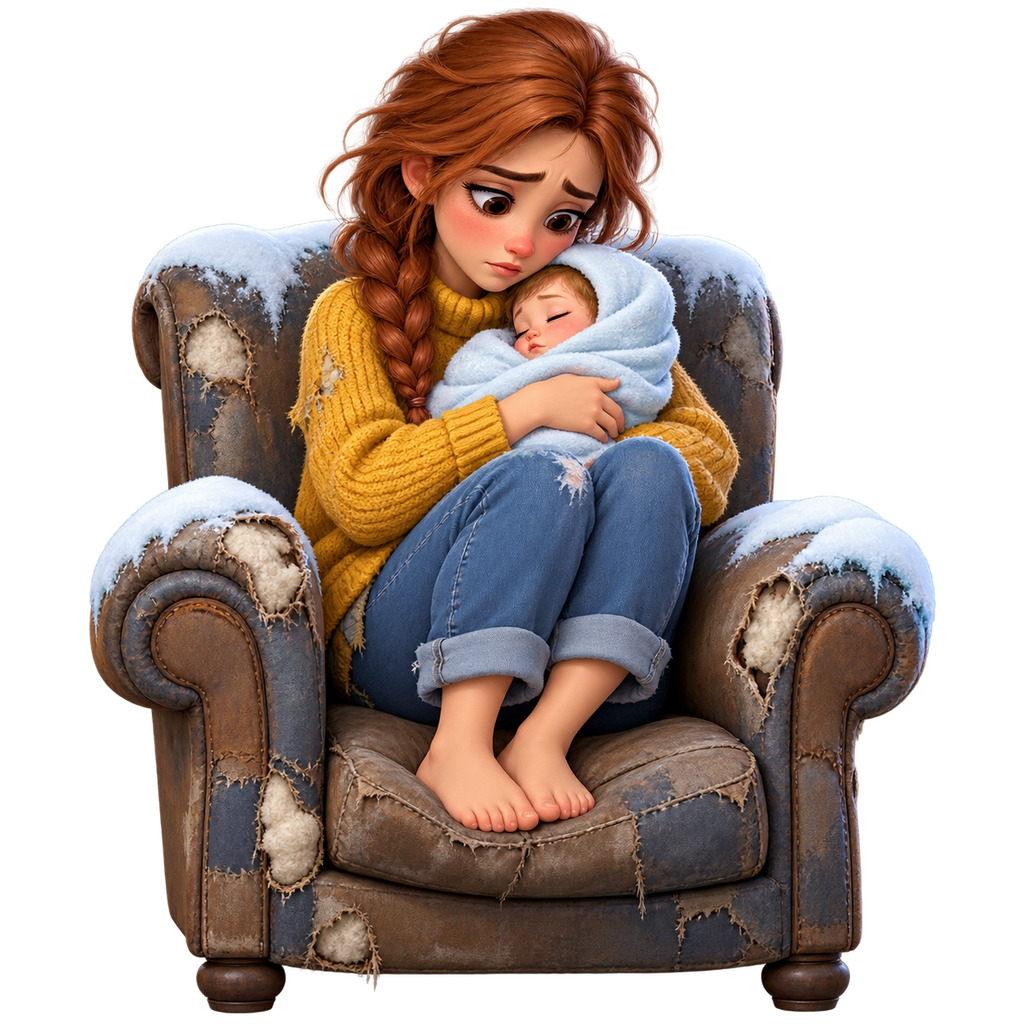
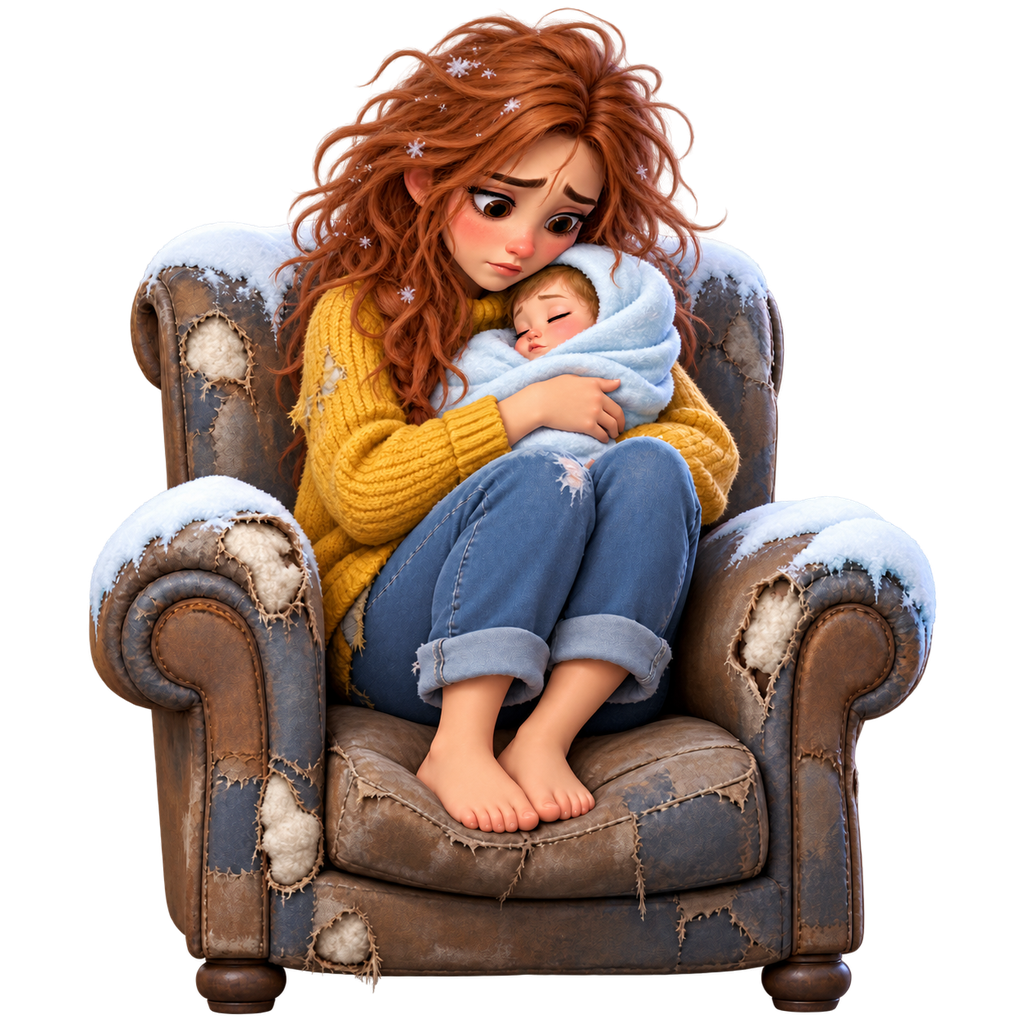
comb payoff: wild uncombed hair before, neat braid after; regenerate dependent hero sprites

diff --git a/live/assets.js b/live/assets.js
@@ -1,1 +1,1 @@
-window.ASSETS = {"bg_outside": {"w": 1024, "h": 1536, "crop": [0, 0, 1024, 1536], "scale": 1.0}, "bg_room": {"w": 1024, "h": 1536, "crop": [0, 0, 1024, 1536], "scale": 1.0}, "door": {"w": 737, "h": 1503, "crop": [141, 6, 878, 1509], "scale": 1.0}, "frost_frame": {"w": 1024, "h": 1536, "crop": [0, 0, 1024, 1536], "scale": 1.0}, "hand": {"w": 660, "h": 1446, "crop": [190, 2, 850, 1448], "scale": 1.0}, "hero_comb": {"w": 856, "h": 1008, "crop": [85, 10, 941, 1018], "scale": 1.0}, "hero_comb_smile": {"w": 858, "h": 1010, "crop": [84, 9, 942, 1019], "scale": 1.0}, "hero_dress": {"w": 856, "h": 1018, "crop": [85, 1, 941, 1019], "scale": 1.0}, "hero_dress_smile": {"w": 857, "h": 1019, "crop": [84, 0, 941, 1019], "scale": 1.0}, "hero_frozen": {"w": 858, "h": 1019, "crop": [85, 0, 943, 1019], "scale": 1.0}, "hero_sad": {"w": 855, "h": 1015, "crop": [85, 3, 940, 1018], "scale": 1.0}, "hero_sad_smile": {"w": 856, "h": 1019, "crop": [85, 0, 941, 1019], "scale": 1.0}, "hero_snow": {"w": 1479, "h": 915, "crop": [44, 35, 1523, 950], "scale": 1.0}, "tile_coin": {"w": 364, "h": 379, "crop": [2, 2, 366, 381], "scale": 1.0}, "tile_comb": {"w": 304, "h": 405, "crop": [2, 2, 306, 407], "scale": 1.0}, "tile_dress": {"w": 415, "h": 392, "crop": [2, 2, 417, 394], "scale": 1.0}, "tile_leaf": {"w": 368, "h": 391, "crop": [2, 2, 370, 393], "scale": 1.0}, "tile_window": {"w": 340, "h": 392, "crop": [2, 2, 342, 394], "scale": 1.0}, "tile_yarn": {"w": 435, "h": 371, "crop": [2, 2, 437, 373], "scale": 1.0}, "window_patch": {"w": 1024, "h": 1024, "crop": [0, 0, 1024, 1024], "scale": 1.0}};
+window.ASSETS = {"bg_outside": {"w": 1024, "h": 1536, "crop": [0, 0, 1024, 1536], "scale": 1.0}, "bg_room": {"w": 1024, "h": 1536, "crop": [0, 0, 1024, 1536], "scale": 1.0}, "door": {"w": 737, "h": 1503, "crop": [141, 6, 878, 1509], "scale": 1.0}, "frost_frame": {"w": 1024, "h": 1536, "crop": [0, 0, 1024, 1536], "scale": 1.0}, "hand": {"w": 660, "h": 1446, "crop": [190, 2, 850, 1448], "scale": 1.0}, "hero_comb": {"w": 856, "h": 1008, "crop": [85, 10, 941, 1018], "scale": 1.0}, "hero_comb_smile": {"w": 858, "h": 1010, "crop": [84, 9, 942, 1019], "scale": 1.0}, "hero_dress": {"w": 860, "h": 1017, "crop": [83, 3, 943, 1020], "scale": 1.0}, "hero_dress_smile": {"w": 861, "h": 1017, "crop": [82, 3, 943, 1020], "scale": 1.0}, "hero_frozen": {"w": 864, "h": 1020, "crop": [81, 0, 945, 1020], "scale": 1.0}, "hero_sad": {"w": 856, "h": 1016, "crop": [85, 3, 941, 1019], "scale": 1.0}, "hero_sad_smile": {"w": 858, "h": 1017, "crop": [84, 3, 942, 1020], "scale": 1.0}, "hero_snow": {"w": 1475, "h": 857, "crop": [39, 58, 1514, 915], "scale": 1.0}, "tile_coin": {"w": 364, "h": 379, "crop": [2, 2, 366, 381], "scale": 1.0}, "tile_comb": {"w": 304, "h": 405, "crop": [2, 2, 306, 407], "scale": 1.0}, "tile_dress": {"w": 415, "h": 392, "crop": [2, 2, 417, 394], "scale": 1.0}, "tile_leaf": {"w": 368, "h": 391, "crop": [2, 2, 370, 393], "scale": 1.0}, "tile_window": {"w": 340, "h": 392, "crop": [2, 2, 342, 394], "scale": 1.0}, "tile_yarn": {"w": 435, "h": 371, "crop": [2, 2, 437, 373], "scale": 1.0}, "window_patch": {"w": 1024, "h": 1024, "crop": [0, 0, 1024, 1024], "scale": 1.0}};

diff --git a/study/PLAN.md b/study/PLAN.md
@@ -199,6 +199,13 @@ Code-drawn: bubbles, glow, padlock, board frame, goal panel, ribbon captions, li
   chill 10.2, frozen endcard 16.6 s (END_NO_INPUT 18 so frost ends first). smoke/perf tools wait for phase 'choice' instead of fixed sleeps.
   Trade-off: first interaction now at 4.2 s (ad rules say hook ≤ 3 s) — the `no_story` variant measures exactly this.
 
+## Phase 5e (2026-10-09, user idea: make the comb payoff readable)
+- Before-state hair is now WILD: hero_sad regenerated as an edit of the braided one with a tangled mop, NO braid, snowflakes in it; hero_comb (neat
+  glossy braid) is the payoff, so the comb reveal is "wild → combed with a braid" (critic C had it at 4/10: weakest). hero_comb / hero_comb_smile were
+  kept (same pose, only the hair differs from the old sad, so they match the new base). Regenerated on the messy base: hero_dress, hero_dress_smile,
+  hero_sad_smile, hero_frozen, hero_snow (all messy, no braid). Braided originals kept in art/ref/*_braid.png. K.PICK stays 'comb'.
+- Remaining critic-C ideas NOT done (ask first): tap hint + bubbles earlier (story 3.4 s), valid-pair highlight after 3 bad swaps, endcard hero 820 px.
+
 - [ ] 6. PUBLISH — ASK THE USER FIRST: public repo `bankaino/snowbound-home-playable` + Pages from /docs
       (`python tools/build_playable.py --variant all --pages docs`). Never push study/ref or reference frames.
 
